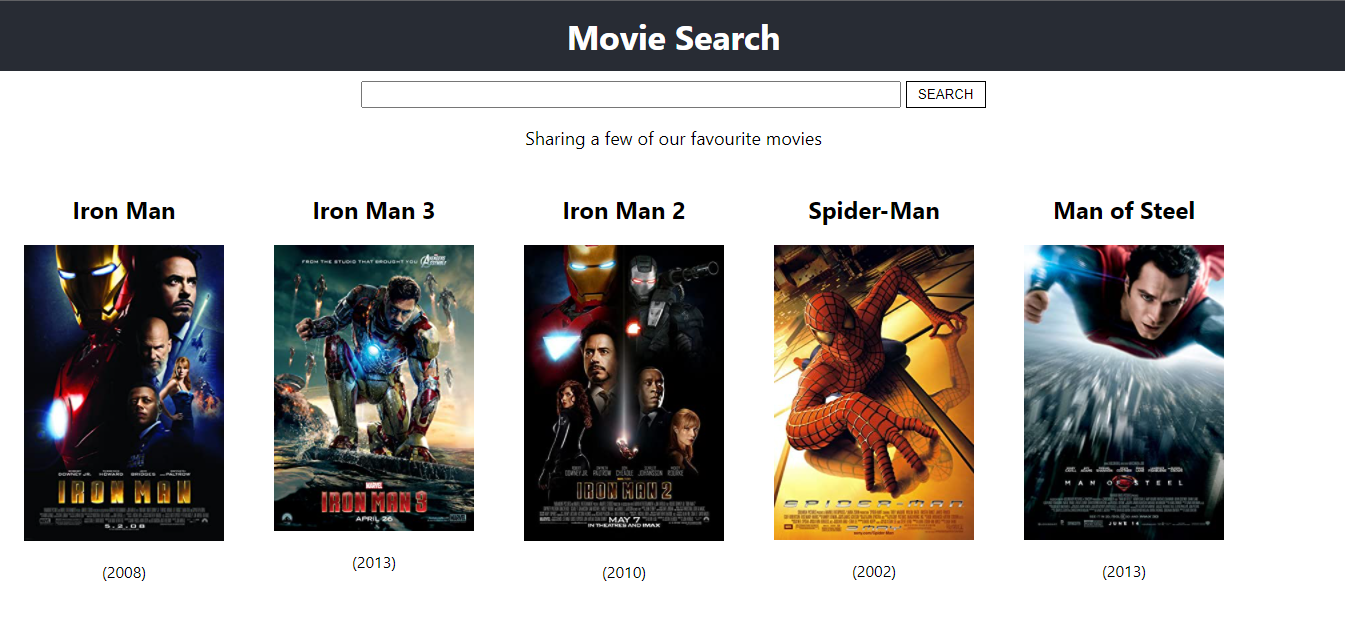
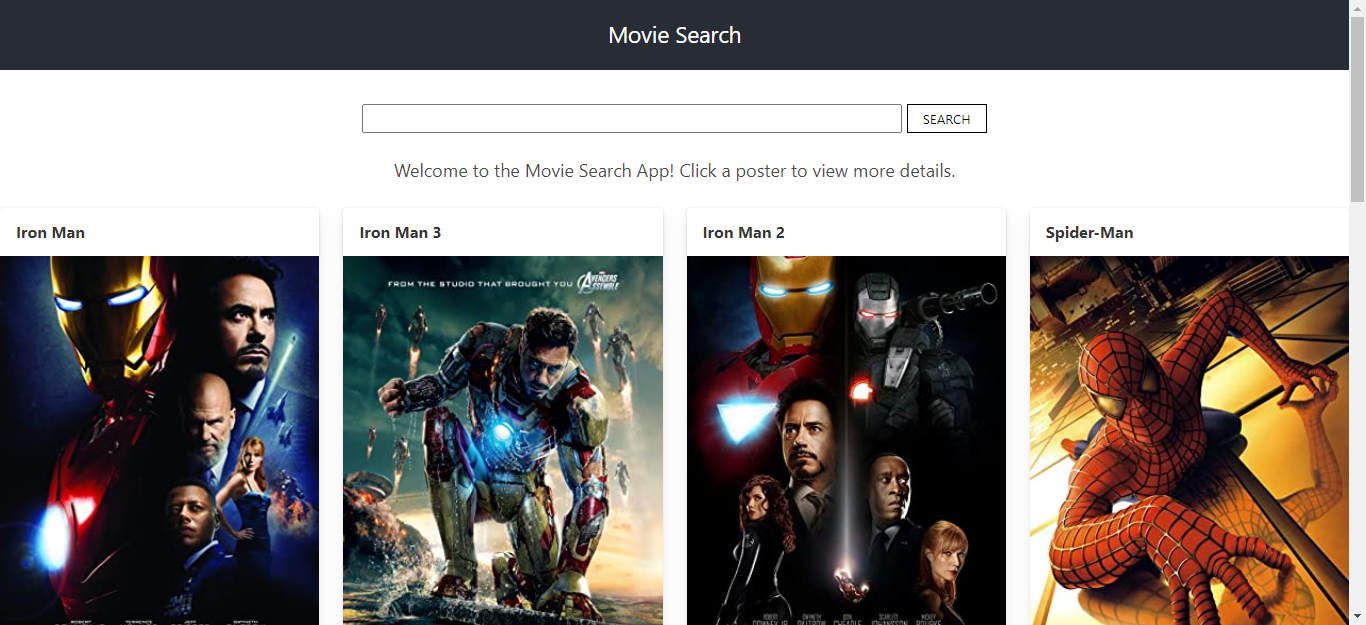
updated readme and display title on info page

diff --git a/movies/src/components/Movie.js b/movies/src/components/Movie.js
@@ -66,6 +66,7 @@ const Movie = ({ movie }) => {
           <div className="modal-content">
             <div className="box">
               <div className="content has-text-justified">
+                <h3>{data.Title}</h3>
                 <p><b>{ratingsRT.Source}: </b>{ratingsRT.Value}</p>
                 <p><b>{ratingsIMDB.Source}: </b>{ratingsIMDB.Value}</p>
                 <p><b>{ratingsMC.Source}: </b>{ratingsMC.Value}</p>

diff --git a/movies/src/components/App.js b/movies/src/components/App.js
@@ -93,7 +93,7 @@ const App = () => {
       <br></br>
       {num > 0 ? (
         <p className="App-intro">Displaying Search Results:</p>
-      ) : (<p className="App-intro">Sharing a few of our favorite movies</p>)
+      ) : (<p className="App-intro">Welcome to the Movie Search App! Click a poster to view more details.</p>)
       }
       <br></br>
       <div className="movies">

diff --git a/README.md b/README.md
@@ -1,7 +1,8 @@
 # MovieSearchApp ![License: MIT](https://img.shields.io/badge/License-MIT-yellow.svg)
 
   ## Description
-* An app to search any movie and see the year it was released and the poster
+* An app to search for any movie
+* Clicking a poster displays more data about the movie selected
 * Uses React and http://www.omdbapi.com/
 * Built following the tutorial found at [Link](https://www.freecodecamp.org/news/how-to-build-a-movie-search-app-using-react-hooks-24eb72ddfaf7/)
 
@@ -20,13 +21,18 @@
     * CSS
     * Javascript
     * React.js
+    * Bulma
 
   ## Usage
 
 * Visit the [Live Webpage](https://am-movie.herokuapp.com/)
 
   ## App
+  ### Welcome Screen
   ![image of webpage](./images/mainPage.png)
+
+  ### Info Screen
+  ![image of webpage](./images/info.png)
 
   ## Contributing
 
